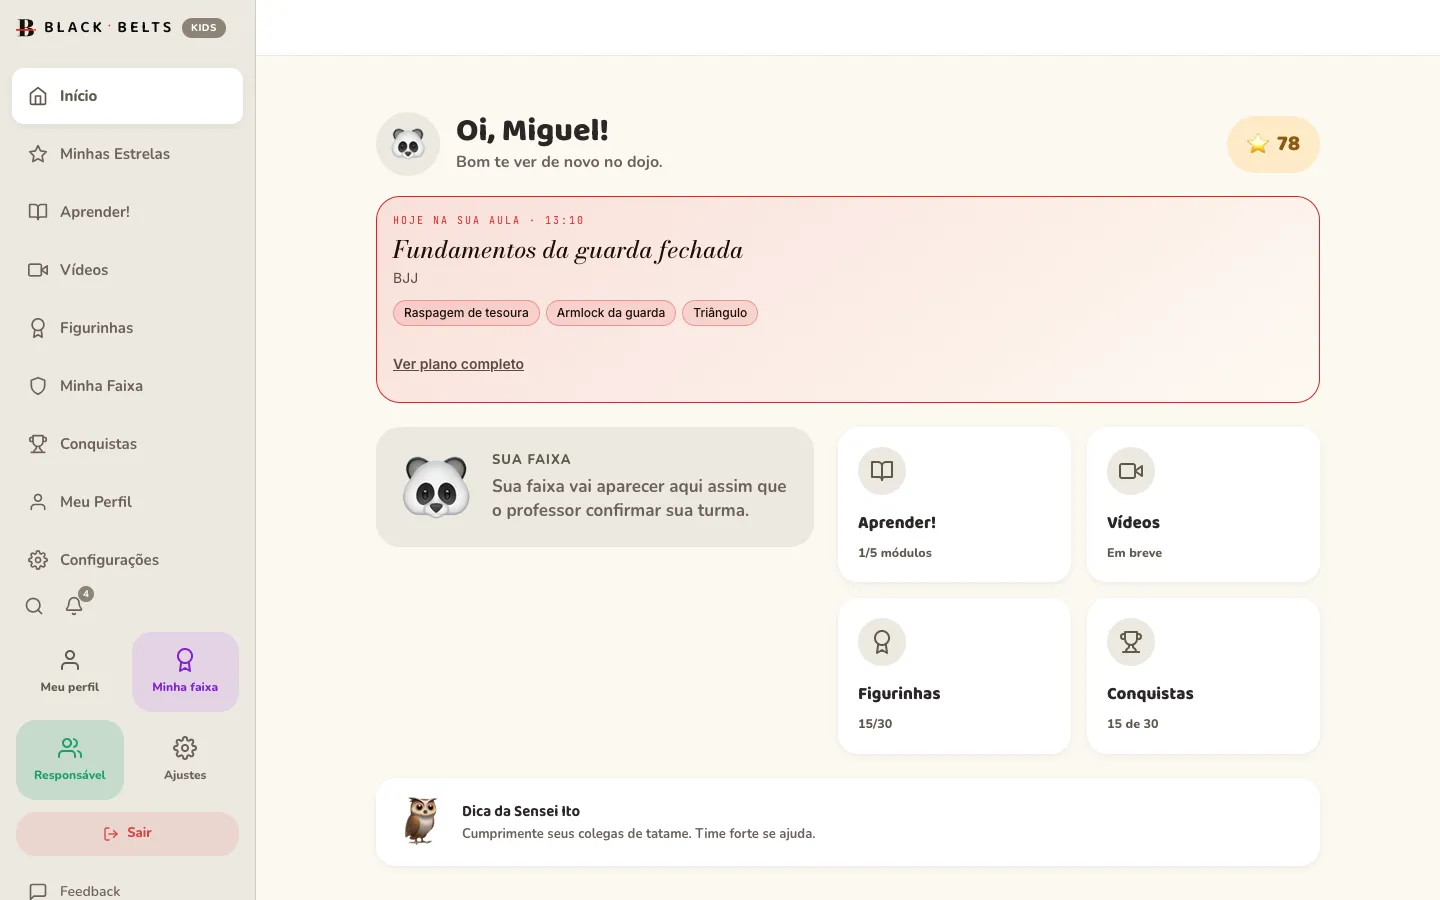
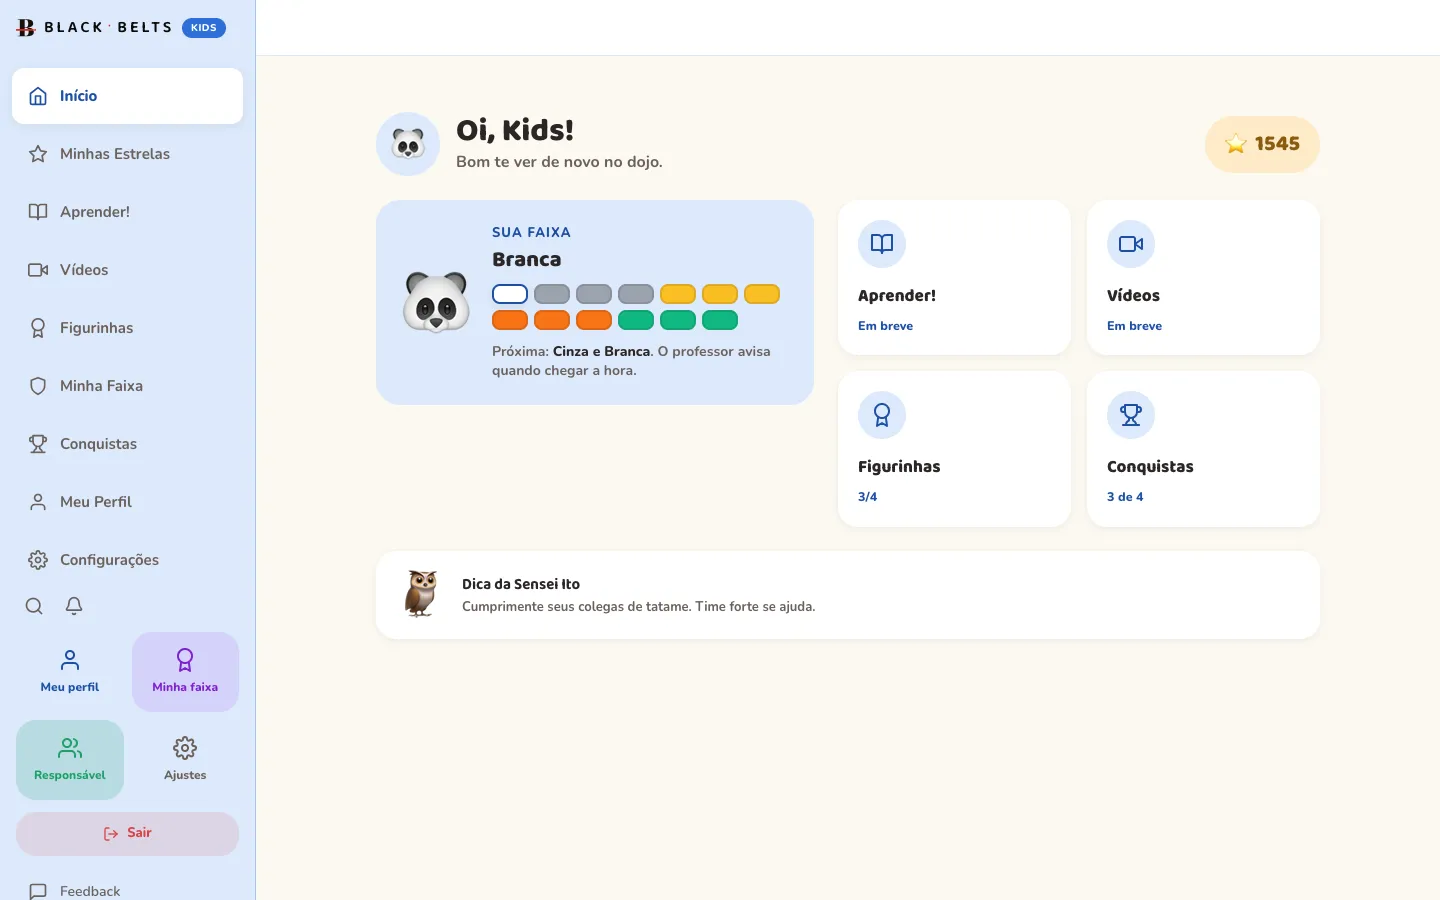
feat: slides do Blackbelts (administrador, aluno, Teen, Kids) e demo da Aura
Capturas de seed local fictício (Supabase local, "Academia Demo"), sem dado real.
Aura: tela estática de demonstração com dados fictícios (conversa, autonomia, tarefas).

Claude-Session: https://claude.ai/code/session_01KRZHtremdxbx3vfJ982YXT

diff --git a/lib/data/produtos.ts b/lib/data/produtos.ts
@@ -65,6 +65,23 @@ export const productShows: ProductShow[] = [
         },
       },
       {
+        id: 'administrador',
+        demo: true,
+        desktop: img('blackbelts', 'administrador-desktop', 1440, 900),
+        text: {
+          pt: {
+            label: 'Administrador',
+            caption: 'Gestão de turmas da academia: turmas ativas, matriculados por turma e horários da semana.',
+            altDesktop: 'Tela Gestão de turmas do administrador no Blackbelts no computador: seis turmas ativas e matriculados por turma',
+          },
+          en: {
+            label: 'Administrator',
+            caption: 'Gym class management: active classes, enrolled students per class and the weekly schedule.',
+            altDesktop: 'Blackbelts administrator Class management screen on desktop: six active classes and enrolled students per class',
+          },
+        },
+      },
+      {
         id: 'professor',
         demo: true,
         desktop: img('blackbelts', 'professor-desktop', 1440, 900),
@@ -101,17 +118,40 @@ export const productShows: ProductShow[] = [
       {
         id: 'aluno',
         demo: true,
-        mobile: img('blackbelts', 'aluno-mobile', 340, 556),
+        desktop: img('blackbelts', 'aluno-desktop', 1440, 900),
+        mobile: img('blackbelts', 'aluno-mobile', 1170, 2532),
         text: {
           pt: {
             label: 'Aluno adulto',
-            caption: 'Tela Meu treino do app do aluno: continue a treinar, faixa atual e próxima aula.',
-            altMobile: 'App do aluno do Blackbelts: Continue a treinar, faixa azul e próxima aula',
+            caption: 'Início do app do aluno: próxima aula, sequência, frequência, graduação e a semana de treinos.',
+            altDesktop: 'Início do aluno adulto no Blackbelts no computador: próxima aula, sequência de aulas, frequência e graduação',
+            altMobile: 'Início do aluno adulto no Blackbelts no celular: próxima aula, sequência e frequência',
           },
           en: {
             label: 'Adult student',
-            caption: 'My training screen in the student app: keep training, current belt and next class.',
-            altMobile: 'Blackbelts student app: Keep training, blue belt and next class',
+            caption: 'Student app home: next class, streak, attendance, belt progress and the training week.',
+            altDesktop: 'Blackbelts adult student home on desktop: next class, class streak, attendance and belt progress',
+            altMobile: 'Blackbelts adult student home on mobile: next class, streak and attendance',
+          },
+        },
+      },
+      {
+        id: 'teen',
+        demo: true,
+        desktop: img('blackbelts', 'teen-desktop', 1440, 900),
+        mobile: img('blackbelts', 'teen-mobile', 1170, 2532),
+        text: {
+          pt: {
+            label: 'Teen',
+            caption: 'Início do módulo Teen: nível, XP, faixa e conquistas desbloqueadas, com responsável vinculado.',
+            altDesktop: 'Início do módulo Teen do Blackbelts no computador: nível, XP, faixa e conquistas',
+            altMobile: 'Início do módulo Teen do Blackbelts no celular: nível, XP e conquistas',
+          },
+          en: {
+            label: 'Teen',
+            caption: 'Teen module home: level, XP, belt and unlocked achievements, with a linked guardian.',
+            altDesktop: 'Blackbelts Teen module home on desktop: level, XP, belt and achievements',
+            altMobile: 'Blackbelts Teen module home on mobile: level, XP and achievements',
           },
         },
       },
@@ -119,19 +159,19 @@ export const productShows: ProductShow[] = [
         id: 'kids',
         demo: true,
         desktop: img('blackbelts', 'kids-desktop', 1440, 900),
-        mobile: img('blackbelts', 'kids-mobile', 780, 1688),
+        mobile: img('blackbelts', 'kids-mobile', 1170, 2532),
         text: {
           pt: {
             label: 'Aluno Kids',
-            caption: 'Início do módulo Kids: aula do dia, faixa, figurinhas e conquistas.',
-            altDesktop: 'Início do módulo Kids do Blackbelts no computador, com mascote de panda, aula do dia e conquistas',
-            altMobile: 'Início do módulo Kids do Blackbelts no celular, com mascote de panda e aula do dia',
+            caption: 'Início do módulo Kids: faixa, estrelas, figurinhas e conquistas, com mascote de panda.',
+            altDesktop: 'Início do módulo Kids do Blackbelts no computador, com mascote de panda, faixa, estrelas e figurinhas',
+            altMobile: 'Início do módulo Kids do Blackbelts no celular, com mascote de panda e faixa',
           },
           en: {
             label: 'Kids student',
-            caption: 'Kids module home: today’s class, belt, stickers and achievements.',
-            altDesktop: 'Blackbelts Kids module home on desktop, with a panda mascot, today’s class and achievements',
-            altMobile: 'Blackbelts Kids module home on mobile, with a panda mascot and today’s class',
+            caption: 'Kids module home: belt, stars, stickers and achievements, with a panda mascot.',
+            altDesktop: 'Blackbelts Kids module home on desktop, with a panda mascot, belt, stars and stickers',
+            altMobile: 'Blackbelts Kids module home on mobile, with a panda mascot and belt',
           },
         },
       },
@@ -261,6 +301,26 @@ export const productShows: ProductShow[] = [
             caption: 'Three autonomy levels: acts alone, asks for your touch, and never acts without you.',
             altDesktop: 'Trust section of the Aura site on desktop: three autonomy levels',
             altMobile: 'Trust section of the Aura site on mobile: three autonomy levels',
+          },
+        },
+      },
+      {
+        id: 'demo',
+        demo: true,
+        desktop: img('aura', 'demo-desktop', 1440, 900),
+        mobile: img('aura', 'demo-mobile', 1170, 2532),
+        text: {
+          pt: {
+            label: 'Demonstração',
+            caption: 'Tela de demonstração com dados fictícios: conversa, níveis de autonomia e lista de tarefas.',
+            altDesktop: 'Tela de demonstração da Aura no computador: conversa com rascunho de e-mail, três níveis de autonomia e tarefas de hoje',
+            altMobile: 'Tela de demonstração da Aura no celular: conversa com rascunho de e-mail e botões Enviar e Ajustar',
+          },
+          en: {
+            label: 'Demo',
+            caption: 'Demo screen with fictional data: conversation, autonomy levels and a task list.',
+            altDesktop: 'Aura demo screen on desktop: a conversation with an email draft, three autonomy levels and today’s tasks',
+            altMobile: 'Aura demo screen on mobile: a conversation with an email draft and Send and Adjust buttons',
           },
         },
       },
